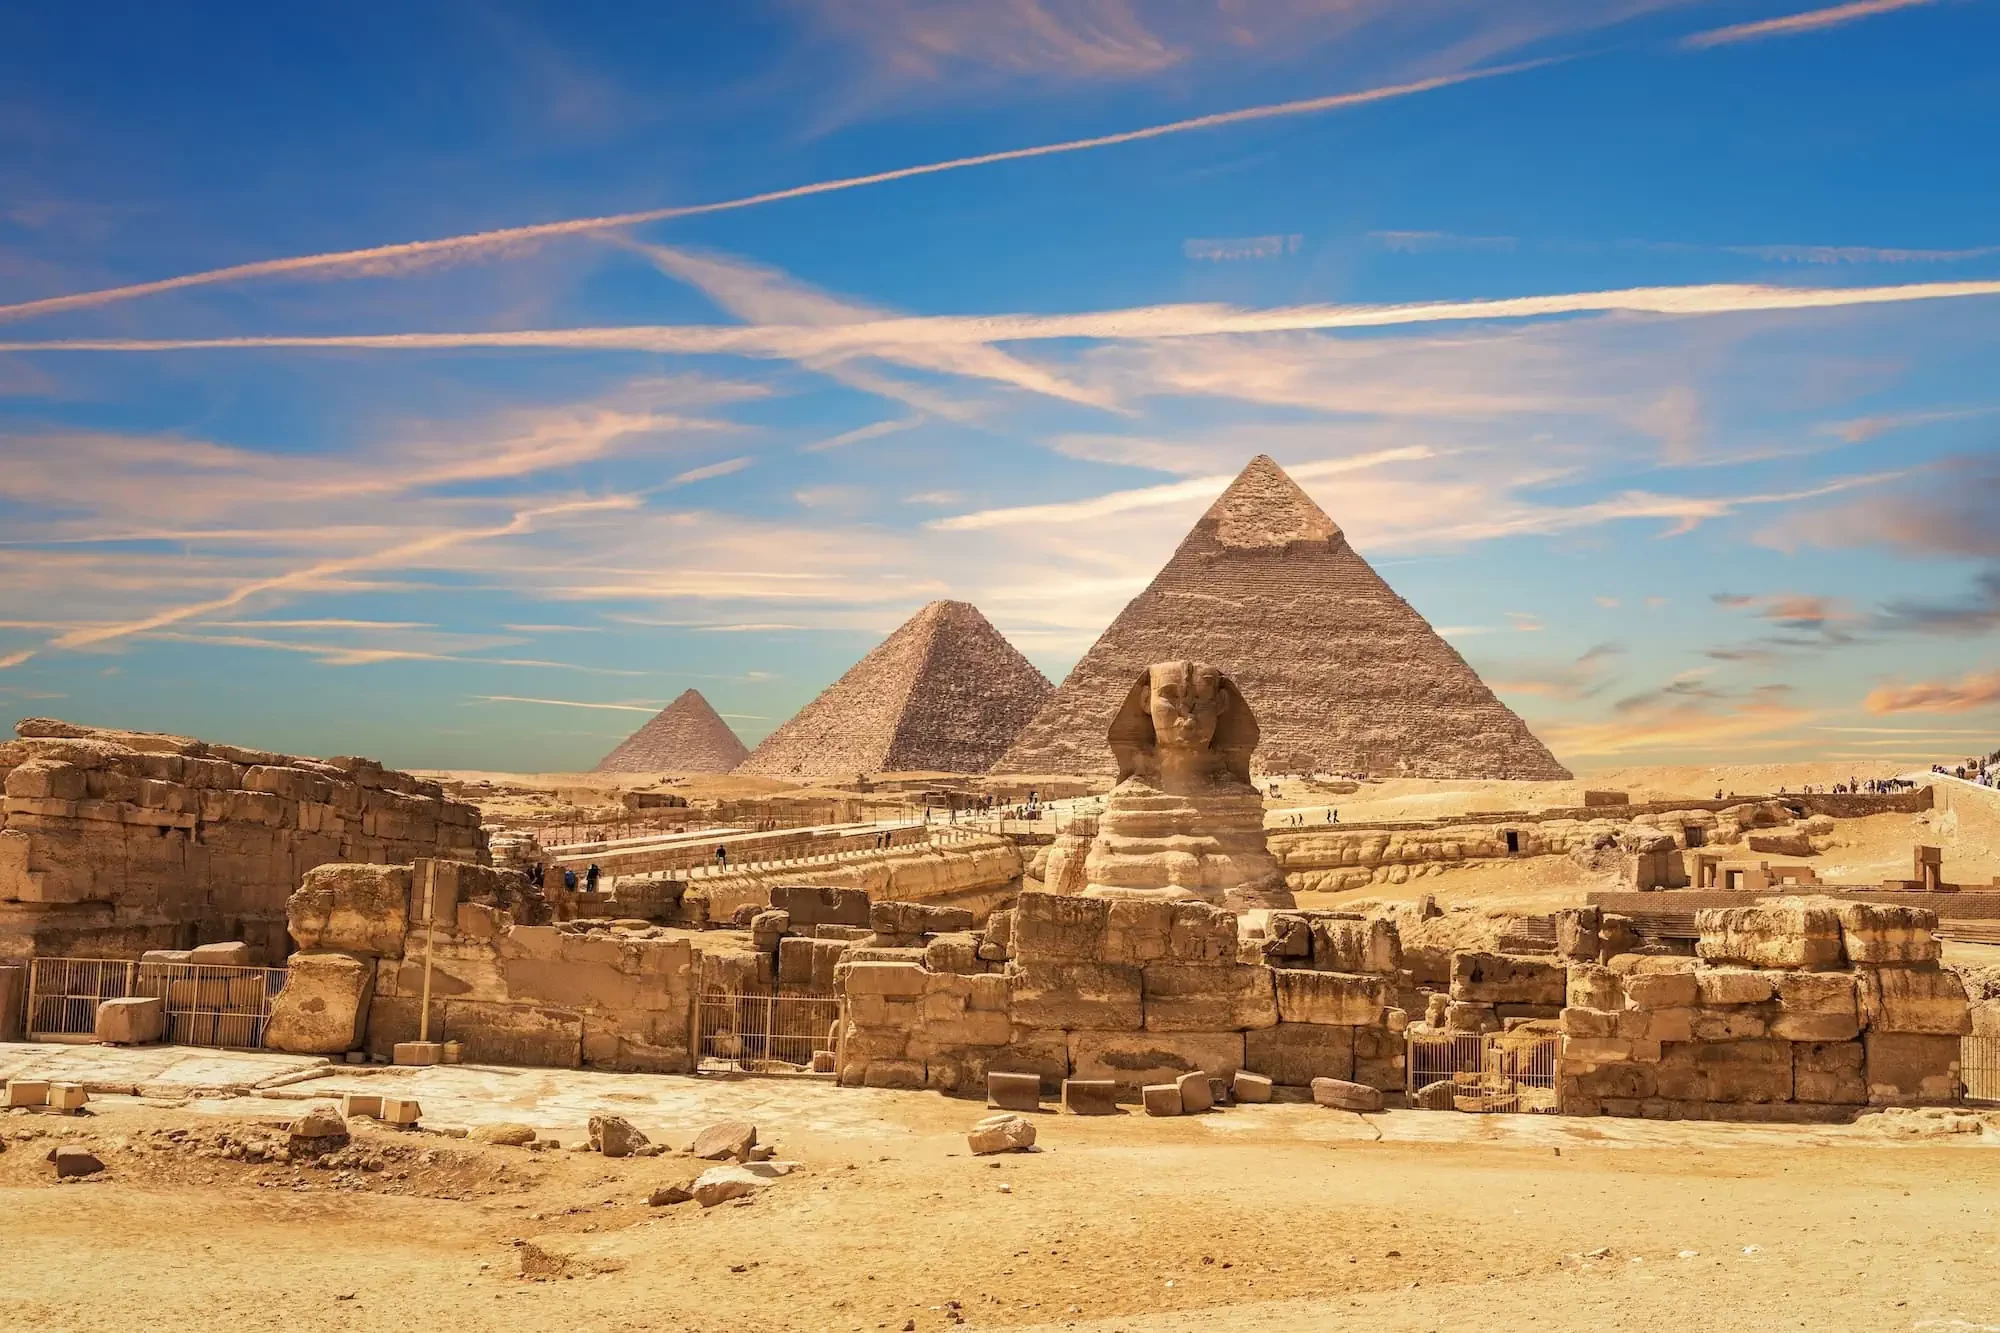
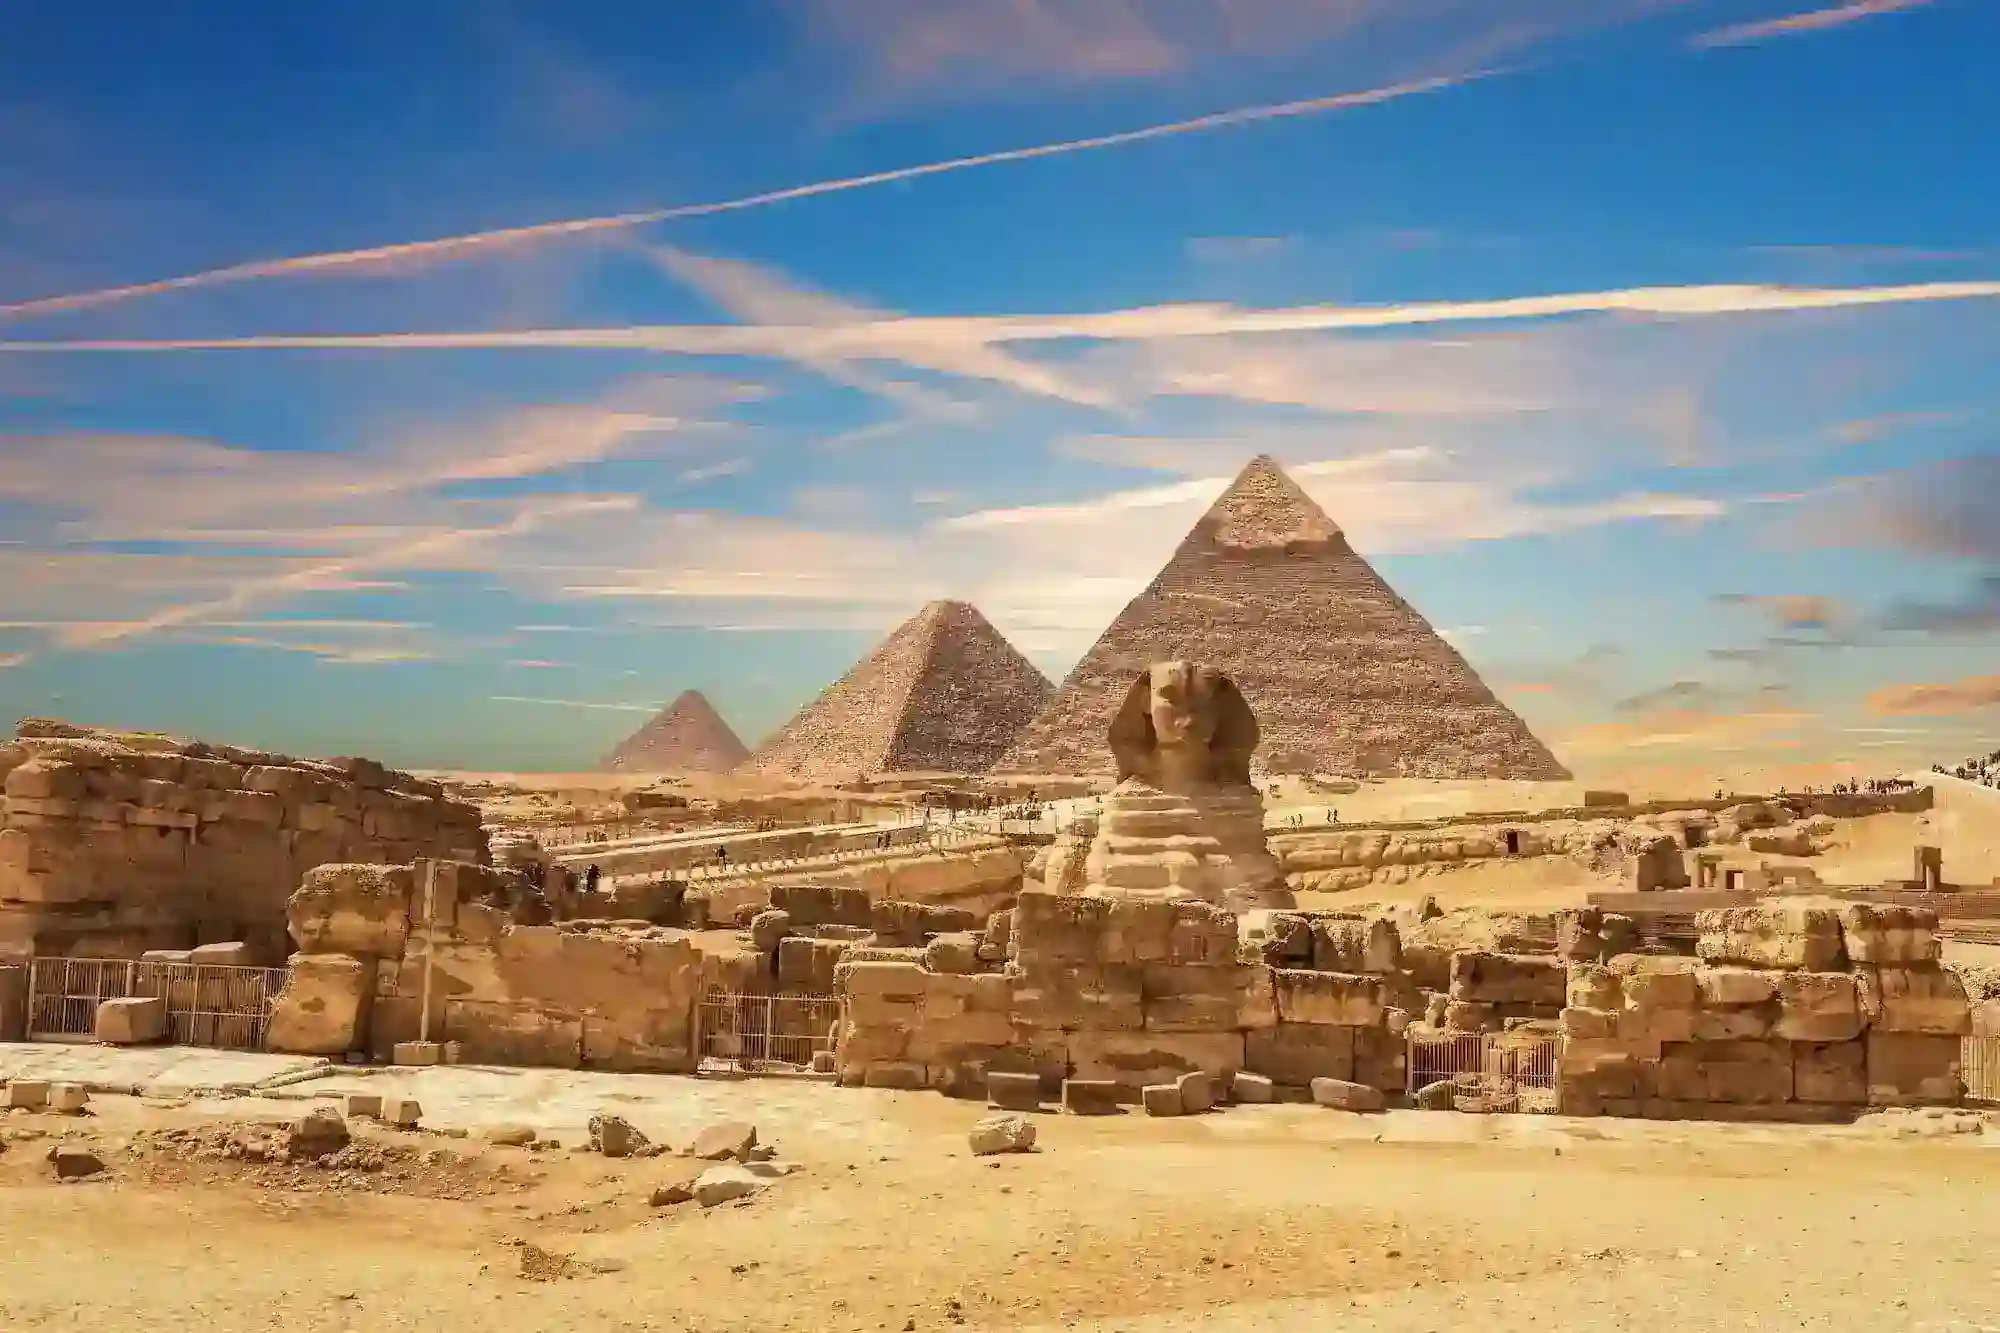
edit the images of about us

diff --git a/components/sections/AboutUs.tsx b/components/sections/AboutUs.tsx
@@ -1,4 +1,4 @@
-"use client";
+"use client";
 
 import { useEffect, useRef, useState } from "react";
 import Image from "next/image";
@@ -30,19 +30,20 @@ export function AboutUs({ locale, ui, copy, conversion }: AboutUsProps) {
       >
         <Container>
           <div className="about-hero__figure">
-            <Image
-              src="/images/pages/about-us/pyramids.jpg"
-              alt=""
-              fill
-              priority
-              sizes="100vw"
-              quality={75}
-              style={{
-                objectFit: "cover",
-                objectPosition: "center",
-              }}
-              aria-hidden="true"
-            />
+              <Image
+                src="/images/pages/about-us/about-us-cover-page.png"
+                alt=""
+                fill
+                priority
+                fetchPriority="high"
+                sizes="(max-width: 768px) 100vw, 100vw"
+                quality={75}
+                style={{
+                  objectFit: "cover",
+                  objectPosition: "center",
+                }}
+                aria-hidden="true"
+              />
           </div>
           <div className="about-hero__content">
             <p className="eyebrow about-hero__kicker">{eyebrow}</p>
